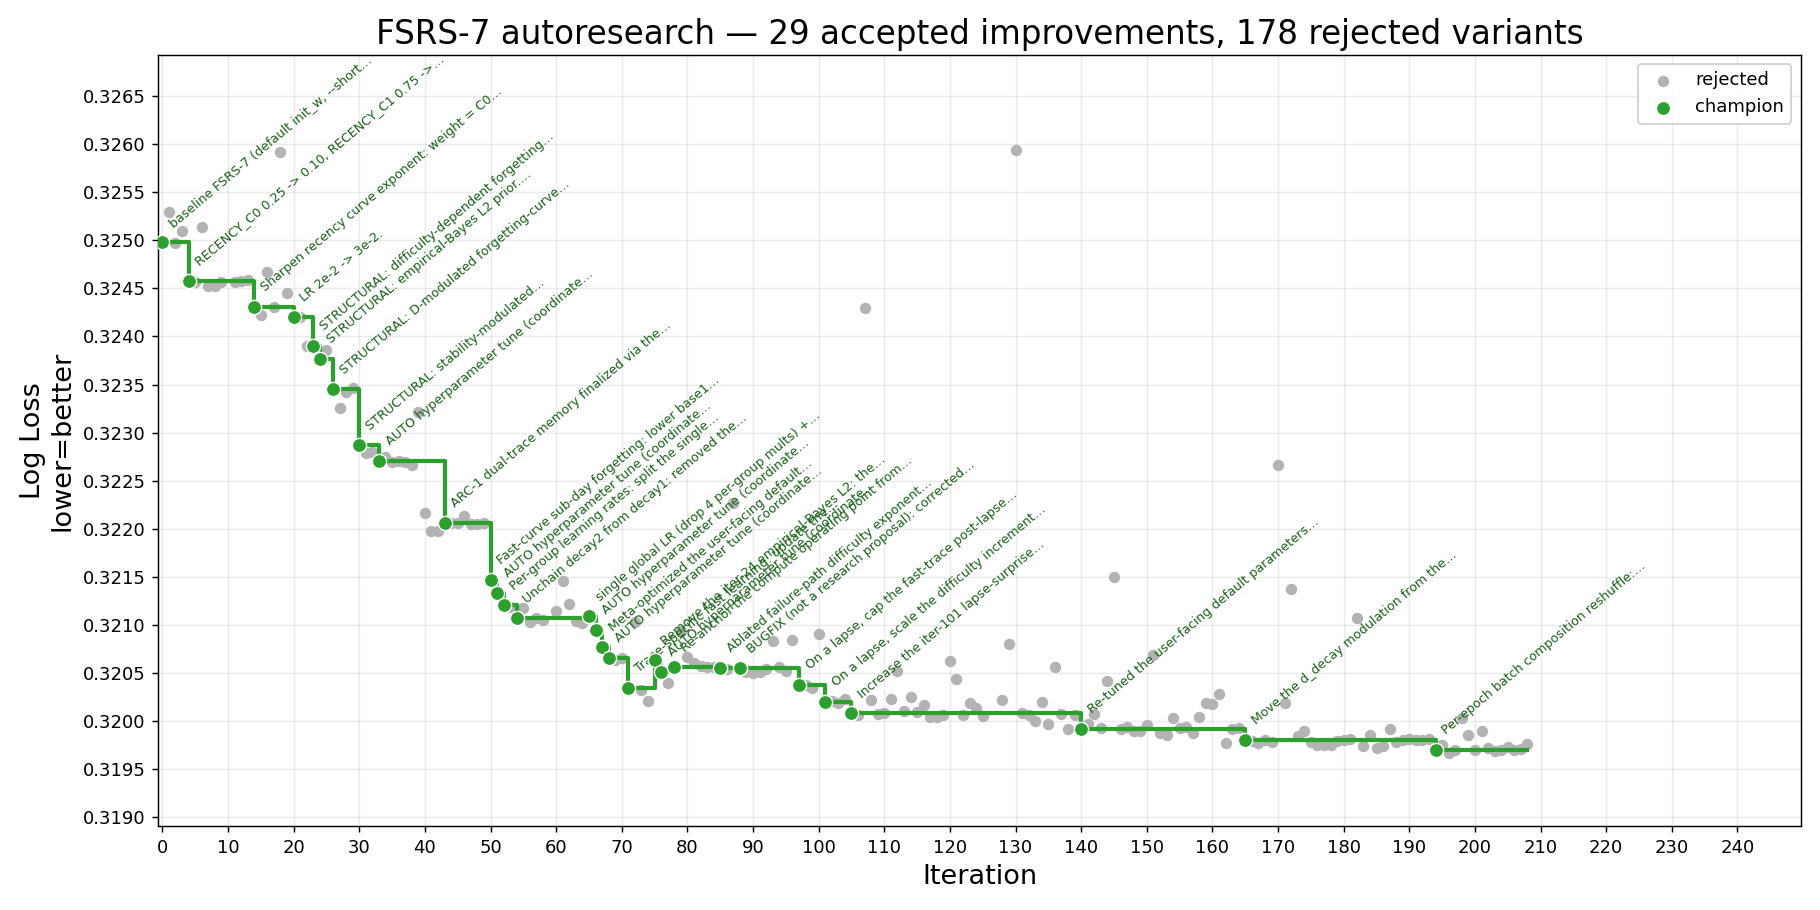
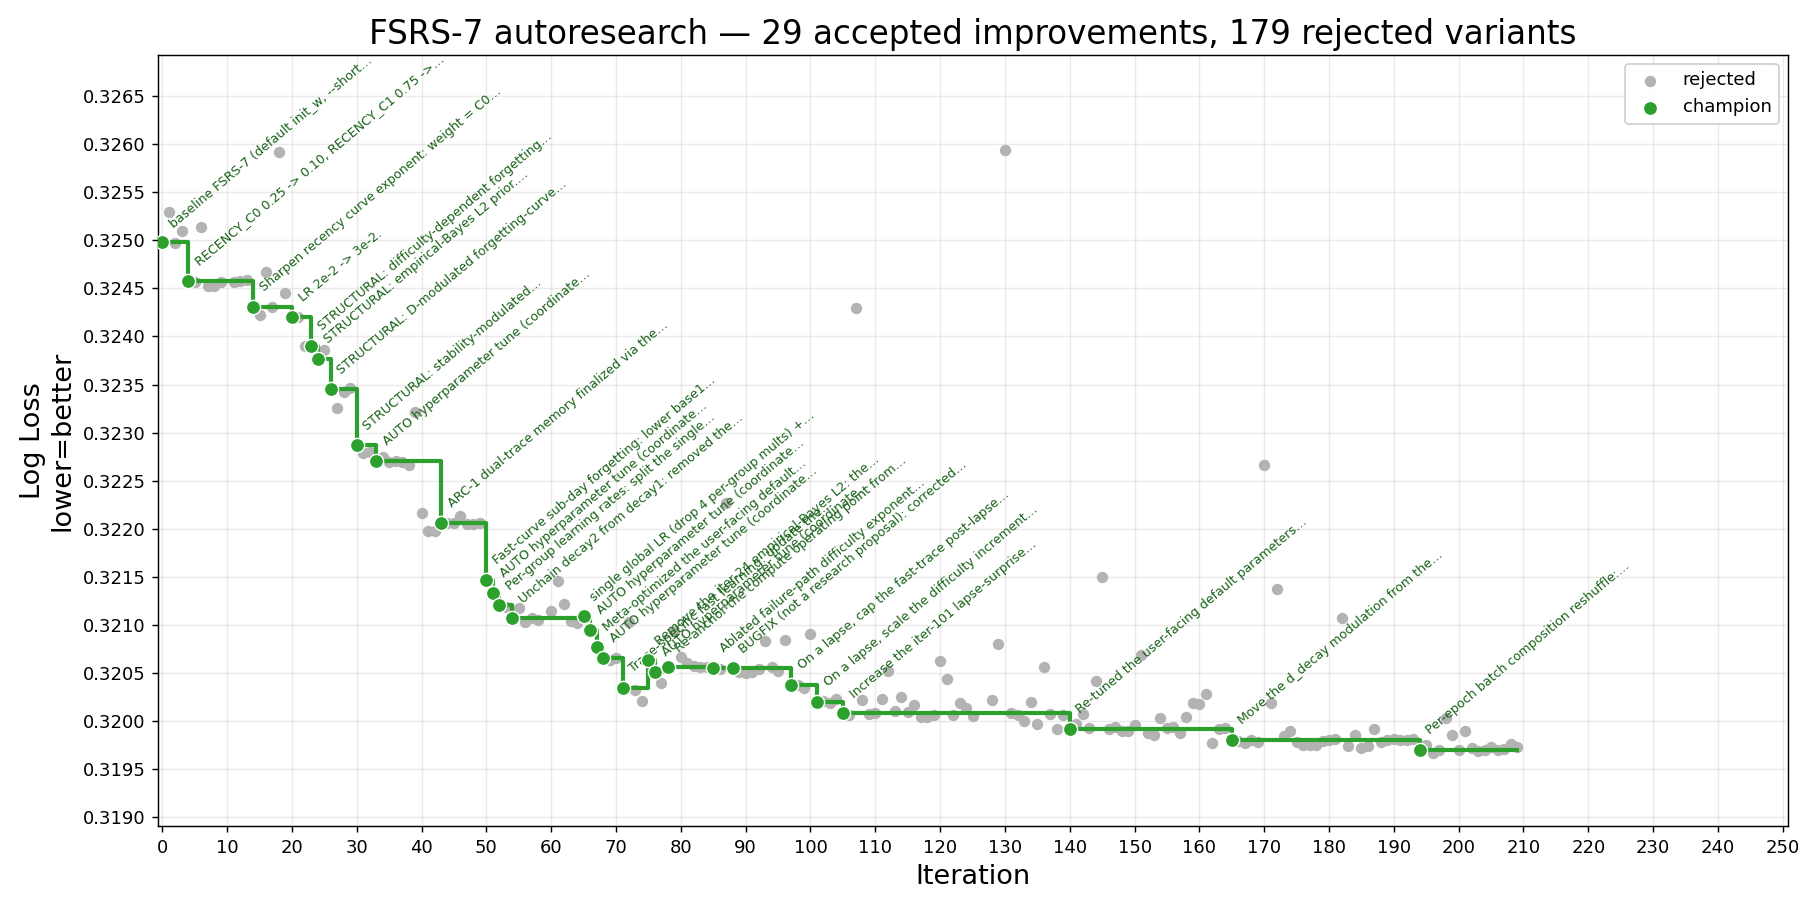
iter-209 rejected (-2.4e-5): size-aware L2 strength; short-split gap is irreducible data scarcity
(256/n)^alpha on the per-row prior strength, alpha swept {0.25, 0.5},
bundled hp_tune on 0.25 (18 runs). Driven by the new gap diagnostic
(split-0 gap ~2x split-4). Monotone worse in alpha, gaps WORSENED
under the stronger prior (test fell faster than train), and the
bundle's W_L2 ladder (0.5 -> 1.125) exposed a -2.4e-5 shape residual.
Short-row freedom is genuine signal, not overfit; size-aware prior
strength joins size-aware LR (188) and spread sigmas (61/208) as
closed L2 recalibration axes.

diff --git a/result/history.md b/result/history.md
@@ -1,6 +1,6 @@
 # FSRS-7 autoresearch — iteration history
 
-_208 record(s). Generated from `history.jsonl` — do not edit by hand._
+_209 record(s). Generated from `history.jsonl` — do not edit by hand._
 
 | # | Time (UTC) | Thresh. | LL before | LL after | Δ LL | Cx before | Cx after | Δ Cx % | Status | Summary |
 |--:|---|---:|---:|---:|---:|---:|---:|---:|---|---|
@@ -212,3 +212,4 @@ _208 record(s). Generated from `history.jsonl` — do not edit by hand._
 | 206 | 2026-06-11T13:24:43 | 0.0001 | 0.31970 | 0.31970 | +0.00000 | 18,442 | 18,442 | +0.00% | rejected | AUTO hyperparameter tune (coordinate descent over training hyperparameters (LR/betas/L2/recency C0+EXP)): best candidate none. |
 | 207 | 2026-06-11T13:38:43 | 0.0000 | 0.31970 | 0.31971 | -0.00001 | 18,442 | 18,442 | +0.00% | rejected | Pure ablation: pin short-trace sinc_r_mult w[17] to its default 3.8668 (MIN=MAX=DEFAULT); 34->33 trainable params. |
 | 208 | 2026-06-11T14:26:52 | 0.0001 | 0.31970 | 0.31976 | -0.00006 | 18,442 | 18,442 | +0.00% | rejected | Recalibrate 30 L2-active sigmas to realized population spread (p99-p01)/4.653, railed [0.5x, 4x]; bundled hp_tune. |
+| 209 | 2026-06-11T15:47:27 | 0.0001 | 0.31970 | 0.31972 | -0.00002 | 19,909 | 19,909 | +0.00% | rejected | Scale per-row L2 strength by (256/n)^alpha, stronger prior for shorter histories; alpha swept {0.25, 0.5}; bundled hp_tune. |
